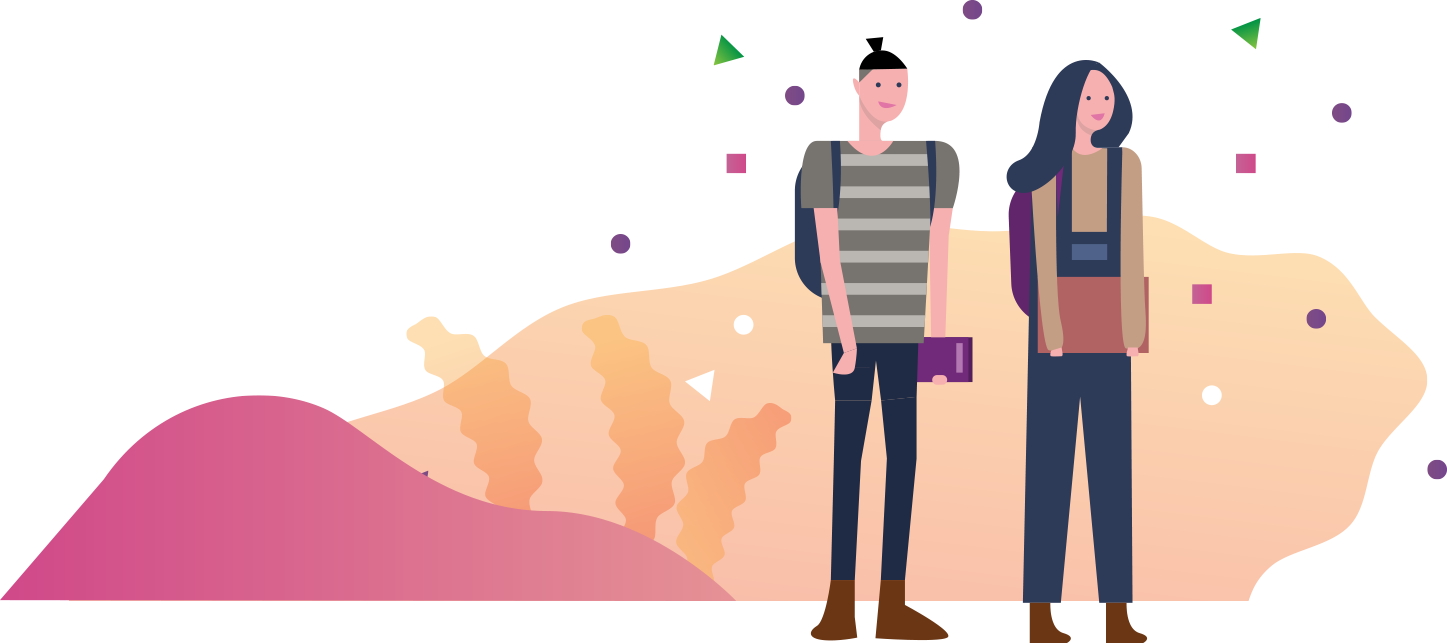
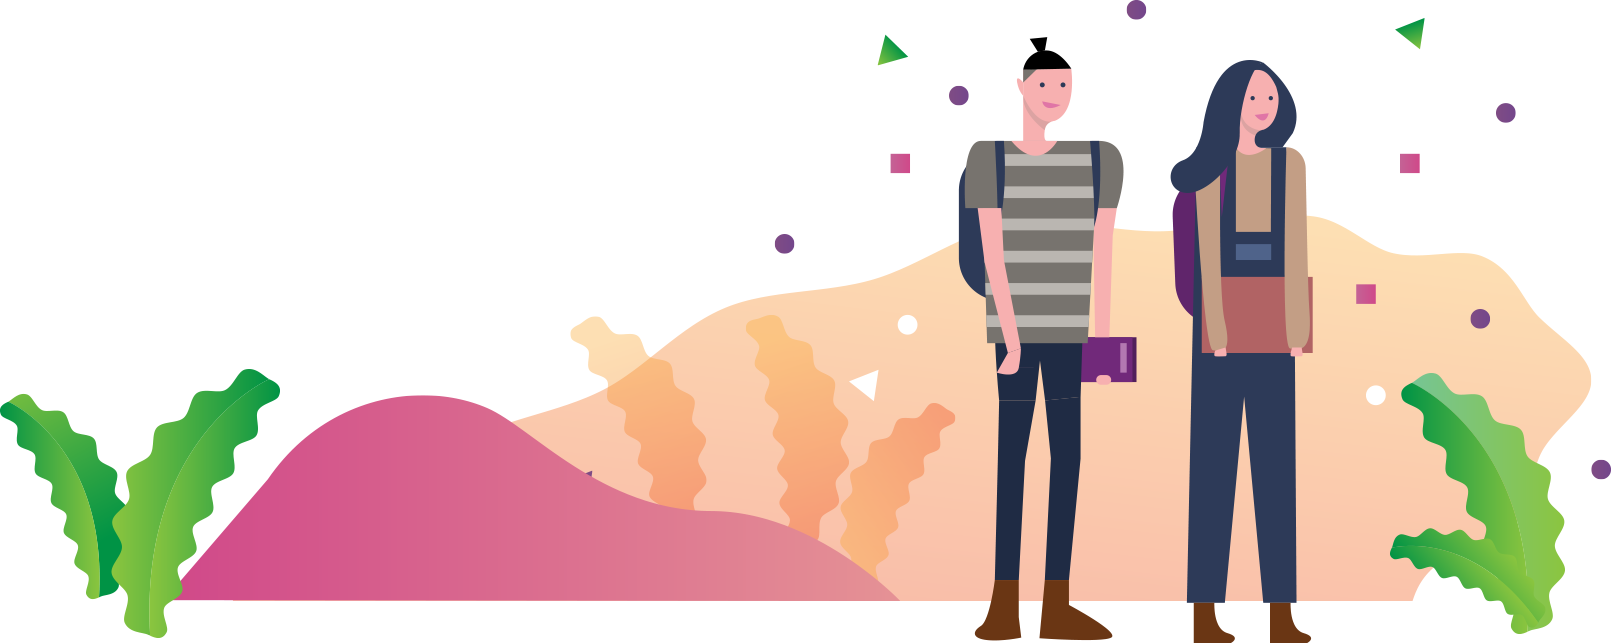
add hero section

diff --git a/style.css b/style.css
@@ -16,12 +16,12 @@ body {
 }
 
 .header-left {
-    width: 40%;
+    width: 30%;
     padding: 35px 70px;
 }
 
 .header-right {
-    width: 60%;
+    width: 75%;
 }
 
 .header-right ul {
@@ -54,4 +54,54 @@ body {
     border-radius: 30px;
     background-color: white;
     box-shadow: 5px 5px 10px gray;
+}
+
+.hero {
+    background-color: beige;
+    height: 550px;
+    padding-top: 100px;
+}
+
+.hero-main {
+    background-color: beige;
+    width: 100%;
+    height: 550px;
+    background-image: url(images/hero.png);
+    background-repeat: no-repeat;
+    background-size: 100%;
+}
+
+.hero-content {
+    width: 500px;
+    padding: 40px 70px
+}
+
+.hero-main .hero-content h1 {
+    color: orange;
+    margin: 0;
+    font-size: 40px;
+}
+
+.hero-main .hero-content p {
+    color: gray;
+    padding-bottom: 20px;
+}
+
+.hero-main .hero-content a {
+    background-color: orange;
+    box-shadow: 5px 5px 15px gray;
+    padding: 10px 30px;
+    border-radius: 30px;
+    text-decoration: none;
+    font-size: 16px;
+    color: #fff;
+    text-transform: uppercase;
+}
+
+.hero-main .hero-content a:hover {
+    background-color: #fff;
+    text-decoration: none;
+    font-size: 16px;
+    text-transform: uppercase;
+    color: black;
 }

diff --git a/index.html b/index.html
@@ -20,13 +20,24 @@
             <div class="header-right">
                 <ul>
                     <li><a id="active-btn" href="#">home</a></li>
-                    <li><a href="#">services</a></li>
-                    <li><a href="#">blog</a></li>
-                    <li><a href="#">about</a></li>
+                    <li><a href="#">about us</a></li>
+                    <li><a href="#">admission</a></li>
+                    <li><a href="#">pages</a></li>
+                    <li><a href="#">news</a></li>
                     <li><a href="#">contact</a></li>
                     <li><a id="aplly-btn" href="#">Apply Now</a></li>
                 </ul>
             </div>
+        </div>
+    </section>
+
+    <section class="hero">
+        <div class="hero-main">
+               <div class="hero-content">
+                    <h1>Innovation for education <br>and society</h1>
+                    <p>Lorem ipsum dolor, sit amet consectetur adipisicing elit. Ea dolores, rerum possimus temporibus sint quae voluptate eius non quis velit modi iure, earum ab nobis. Nisi sed provident magnam voluptatem.</p>
+                    <a href="#">Visit Our Campus</a>
+               </div>
         </div>
     </section>
 </body>
